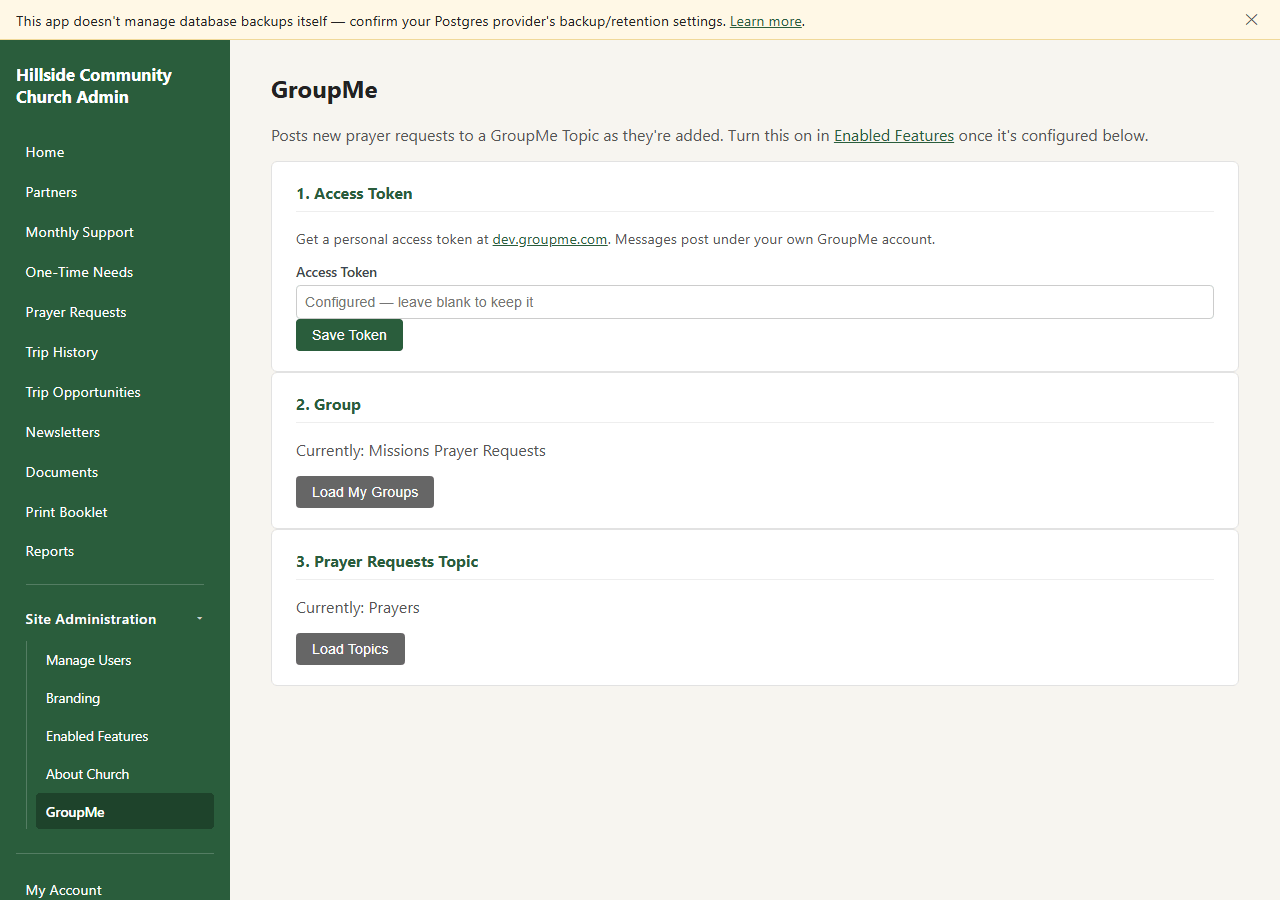
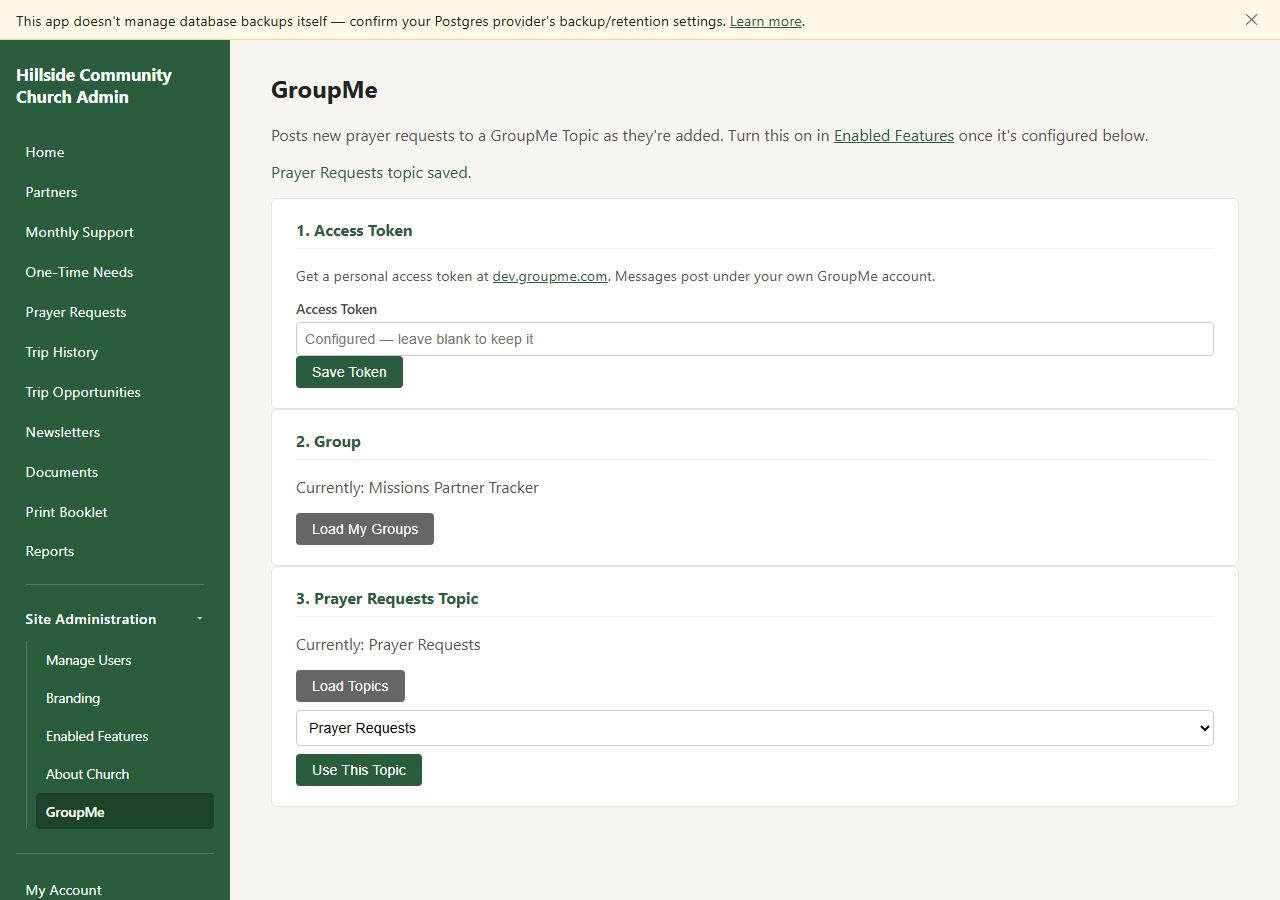
Document every admin area on the docs site, with a real GroupMe screenshot
Adds a gallery section covering the home dashboard, monthly support,
one-time needs, trip history/opportunities, newsletters, documents,
the booklet generator, user management, church info, and enabled
features — the areas not already covered by their own feature
section. Also replaces the GroupMe settings screenshot with one from
an actual connected group/topic (walked through the real setup flow
with a live access token) instead of placeholder data.

Changed region(s): [[0.2188, 0.2489, 0.7188, 0.8711], [0.2188, 0.1867, 0.375, 0.2178]]

diff --git a/docs/index.html b/docs/index.html
@@ -186,6 +186,83 @@
       </div>
     </section>
 
+    <section class="gallery-section">
+      <div class="wrap">
+        <h2>And everything else that keeps a missions program running</h2>
+        <p>
+          A home dashboard, monthly support totals, one-time need requests, mission trip history and
+          opportunity search, a newsletter and document archive, the booklet generator itself, user
+          management, church info, and every other admin-only prayer request in one place.
+        </p>
+        <div class="gallery">
+          <div class="gallery-item">
+            <img src="assets/screenshots/admin-home.png" alt="Admin home dashboard" loading="lazy" />
+            <div class="caption">Home dashboard</div>
+          </div>
+          <div class="gallery-item">
+            <img
+              src="assets/screenshots/prayer-requests-list.png"
+              alt="Prayer requests, across every partner"
+              loading="lazy"
+            />
+            <div class="caption">Prayer requests, across every partner</div>
+          </div>
+          <div class="gallery-item">
+            <img src="assets/screenshots/monthly-support.png" alt="Monthly support totals" loading="lazy" />
+            <div class="caption">Monthly support totals</div>
+          </div>
+          <div class="gallery-item">
+            <img src="assets/screenshots/one-time-needs.png" alt="One-time need requests" loading="lazy" />
+            <div class="caption">One-time need requests</div>
+          </div>
+          <div class="gallery-item">
+            <img src="assets/screenshots/trip-history.png" alt="Mission trip history" loading="lazy" />
+            <div class="caption">Mission trip history</div>
+          </div>
+          <div class="gallery-item">
+            <img
+              src="assets/screenshots/trip-opportunities.png"
+              alt="Trip opportunity search by team size and type"
+              loading="lazy"
+            />
+            <div class="caption">Find who can host your next trip</div>
+          </div>
+          <div class="gallery-item">
+            <img src="assets/screenshots/newsletters.png" alt="Newsletter archive" loading="lazy" />
+            <div class="caption">Newsletter archive</div>
+          </div>
+          <div class="gallery-item">
+            <img src="assets/screenshots/documents.png" alt="Document archive" loading="lazy" />
+            <div class="caption">Survey &amp; document archive</div>
+          </div>
+          <div class="gallery-item">
+            <img
+              src="assets/screenshots/print-booklet-admin.png"
+              alt="Booklet generator with six layout templates"
+              loading="lazy"
+            />
+            <div class="caption">Six booklet layouts to choose from</div>
+          </div>
+          <div class="gallery-item">
+            <img src="assets/screenshots/manage-users.png" alt="User management with roles" loading="lazy" />
+            <div class="caption">User management &amp; roles</div>
+          </div>
+          <div class="gallery-item">
+            <img src="assets/screenshots/about-church.png" alt="Church info settings" loading="lazy" />
+            <div class="caption">Church info</div>
+          </div>
+          <div class="gallery-item">
+            <img
+              src="assets/screenshots/enabled-features.png"
+              alt="Enabled Features toggles"
+              loading="lazy"
+            />
+            <div class="caption">Turn off what you don't use</div>
+          </div>
+        </div>
+      </div>
+    </section>
+
     <section class="oss">
       <div class="wrap">
         <h2>Free, open source, and yours to run</h2>

diff --git a/docs/assets/style.css b/docs/assets/style.css
@@ -187,6 +187,42 @@ header.site-header nav a:hover {
   min-width: 0;
 }
 
+/* "Everything else" gallery */
+.gallery-section {
+  padding: 3.5rem 0;
+  border-bottom: 1px solid var(--border);
+}
+
+.gallery-section h2 {
+  color: var(--green-dark);
+  margin: 0 0 0.5rem;
+}
+
+.gallery-section > .wrap > p {
+  color: var(--muted);
+  max-width: 640px;
+  margin: 0 0 2rem;
+}
+
+.gallery {
+  display: grid;
+  grid-template-columns: repeat(auto-fill, minmax(260px, 1fr));
+  gap: 1.5rem;
+}
+
+.gallery-item img {
+  border-radius: 8px;
+  border: 1px solid var(--border);
+  box-shadow: 0 2px 10px rgba(31, 61, 43, 0.1);
+  margin-bottom: 0.6rem;
+}
+
+.gallery-item .caption {
+  font-weight: 600;
+  font-size: 0.95rem;
+  color: var(--green-dark);
+}
+
 /* Open source section */
 .oss {
   background: var(--green-light);
